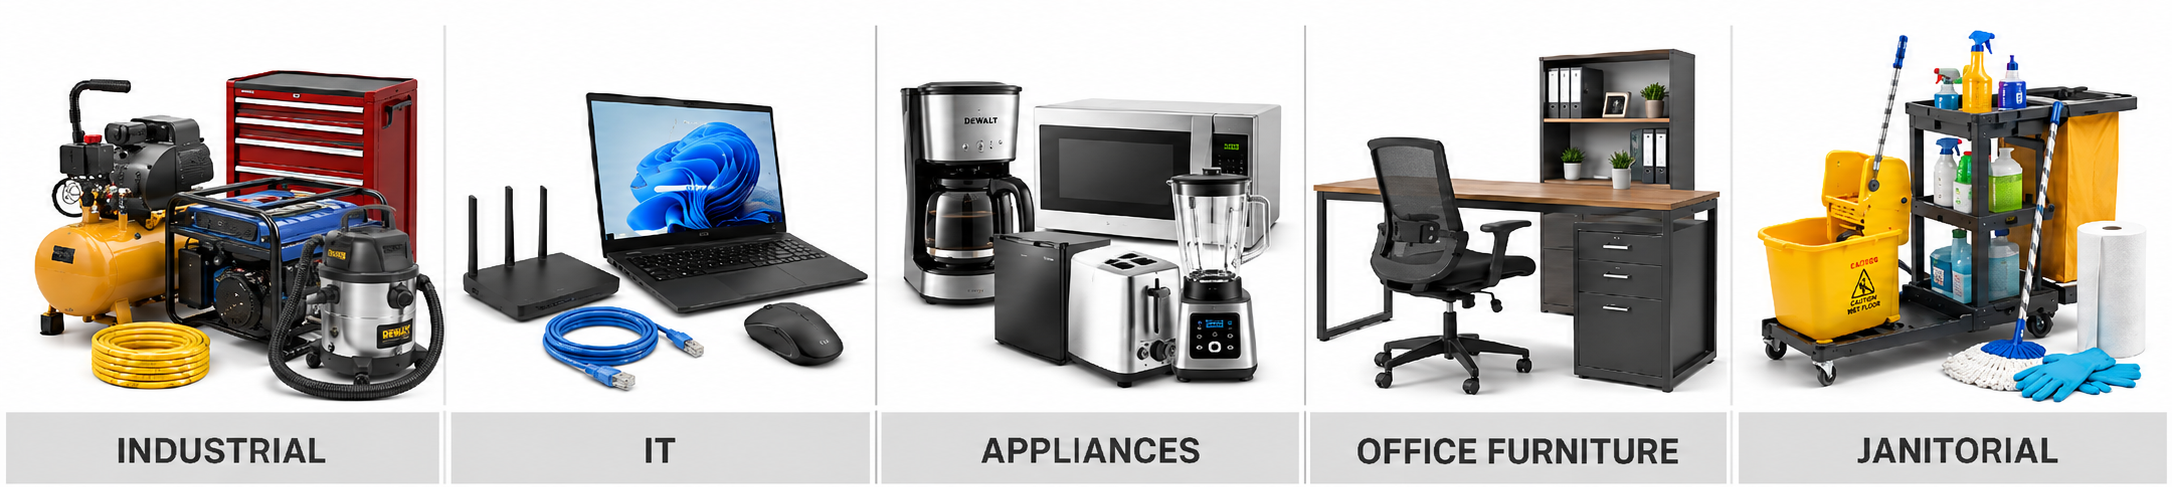
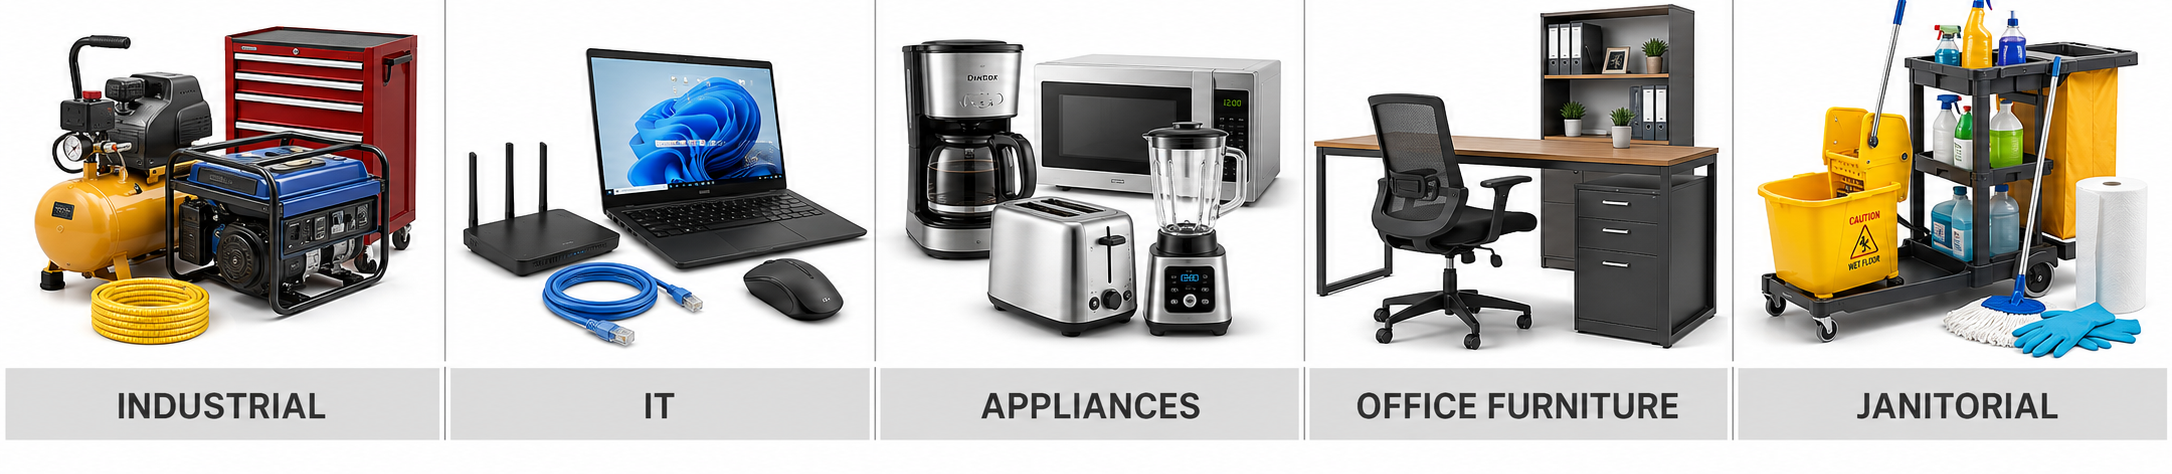
Add files via upload

diff --git a/privacy.html b/privacy.html
@@ -23,7 +23,6 @@
       <nav class="site-nav" id="site-nav">
           <a href="index.html">Home</a>
           <a href="about.html">About</a>
-          <a href="quote.html">Request a Quote</a>
           <a href="contact.html">Contact Us</a>
           <a class="shop" href="https://www.gsaadvantage.gov/advantage/ws/search/advantage_search?q=0:2GS-21F-0088X&amp;db=0&amp;searchType=1" target="_blank" rel="noopener">Shop</a>
       </nav>
@@ -41,15 +40,17 @@
     <div class="wrap">
       <p class="lede">
         This website is an informational site for New Century Technologies Inc. It does not have
-        accounts, a shopping cart, or checkout. We do not collect personal information from visitors,
-        we do not use tracking or advertising cookies, and we do not rent, sell, or lease your
-        information to anyone.
+        accounts, a shopping cart, or checkout. Aside from the quote request form, we do not collect
+        personal information from visitors, we do not use tracking or advertising cookies, and we do
+        not rent, sell, or lease your information to anyone.
       </p>
 
       <h2>What we collect on this site</h2>
       <p>
-        Nothing. There are no forms, no sign-ups, and no accounts on newcenturytechnologies.com.
-        You can read every page without giving us any information.
+        The only place this website collects information is the quote request form. If you use it, we
+        receive what you enter &mdash; typically your name, agency, email, phone, and the details of
+        your request &mdash; and we use it solely to prepare and respond to your quote. Every other
+        page can be read without giving us any information.
       </p>
 
       <h2>Cookies and tracking</h2>
@@ -61,11 +62,16 @@
 
       <h2>When you contact us</h2>
       <p>
-        If you call, fax, or email us, we receive whatever you choose to send &mdash; typically your
-        name, contact details, and what you&rsquo;re asking about. We use that information only to
-        respond to you and to fulfill your order or quote request. We do not add you to marketing
-        lists, and we do not share your inquiry with anyone outside NCT except where it is necessary
-        to fulfill your request.
+        If you call, fax, email us, or use the quote request form, we receive whatever you choose to
+        send &mdash; typically your name, contact details, and what you&rsquo;re asking about. We use
+        that information only to respond to you and to fulfill your order or quote request. We do not
+        add you to marketing lists, and we do not share your inquiry with anyone outside NCT except
+        where it is necessary to fulfill your request.
+      </p>
+      <p>
+        The quote request form is delivered to us through a third-party form processor, which passes
+        your submission to our email and does not use it for any other purpose. Their handling of that
+        data is governed by their own privacy practices.
       </p>
 
       <h2>Purchases through GSA Advantage</h2>
@@ -111,7 +117,8 @@
           <ul>
             <li><a href="shipping.html">Shipping Policy</a></li>
             <li><a href="returns.html">Return Policy</a></li>
-            <li><a href="privacy.html">Terms and Conditions</a></li>
+            <li><a href="privacy.html">Privacy Policy</a></li>
+            <li><a href="docs/GS-21F-0088X_FSSPricelist.PDF" target="_blank" rel="noopener">Terms and Conditions</a></li>
           </ul>
         </div>
         <div>

diff --git a/style.css b/style.css
@@ -72,7 +72,7 @@ button:focus-visible {
   padding-bottom: 10px;
 }
 .brand { display: inline-flex; align-items: center; }
-.brand img { height: 44px; width: auto; display: block; }
+.brand img { height: 62px; width: auto; display: block; }
 
 .nav-toggle {
   display: none;
@@ -91,8 +91,8 @@ button:focus-visible {
   text-decoration: none;
   font-weight: 600;
   font-size: 15px;
-  padding: 9px 14px;
-  border-radius: 6px;
+  padding: 4px 8px;
+  border-radius: 5px;
 }
 .site-nav a:hover { background: var(--wash); }
 .site-nav a[aria-current="page"] {
@@ -179,7 +179,7 @@ strong { color: var(--ink); }
 
 .btn {
   display: inline-block;
-  padding: 12px 22px;
+  padding: 4px 9px;
   border-radius: 6px;
   font-weight: 600;
   font-size: 15px;
@@ -714,7 +714,7 @@ main .wrap > .closing + .closing { margin-top: 14px; }
   margin-bottom: 12px;
 }
 .stage-h1 {
-  font-size: clamp(26px, 3.6vw, 38px);
+  font-size: clamp(22px, 3vw, 32px);
   line-height: 1.14;
   letter-spacing: -0.03em;
   font-weight: 700;

diff --git a/index.html b/index.html
@@ -23,7 +23,6 @@
       <nav class="site-nav" id="site-nav">
           <a href="index.html" aria-current="page">Home</a>
           <a href="about.html">About</a>
-          <a href="quote.html">Request a Quote</a>
           <a href="contact.html">Contact Us</a>
           <a class="shop" href="https://www.gsaadvantage.gov/advantage/ws/search/advantage_search?q=0:2GS-21F-0088X&amp;db=0&amp;searchType=1" target="_blank" rel="noopener">Shop</a>
       </nav>
@@ -36,7 +35,7 @@
 
       <div class="stage-copy">
         <p class="stage-eyebrow">Serving federal, state, and local agencies</p>
-        <h1 class="stage-h1">Office, industrial, janitorial, and IT products for <em>government agencies</em>.</h1>
+        <h1 class="stage-h1">Office, industrial, appliances, janitorial, and IT products for <em>government agencies</em>.</h1>
         <p class="stage-sub">
           A Woman-Owned, Small Disadvantaged Business and GSA-certified MAS Contractor delivering
          within budget.
@@ -159,7 +158,8 @@
           <ul>
             <li><a href="shipping.html">Shipping Policy</a></li>
             <li><a href="returns.html">Return Policy</a></li>
-            <li><a href="privacy.html">Terms and Conditions</a></li>
+            <li><a href="privacy.html">Privacy Policy</a></li>
+            <li><a href="docs/GS-21F-0088X_FSSPricelist.PDF" target="_blank" rel="noopener">Terms and Conditions</a></li>
           </ul>
         </div>
         <div>

diff --git a/about.html b/about.html
@@ -23,7 +23,6 @@
       <nav class="site-nav" id="site-nav">
           <a href="index.html">Home</a>
           <a href="about.html" aria-current="page">About</a>
-          <a href="quote.html">Request a Quote</a>
           <a href="contact.html">Contact Us</a>
           <a class="shop" href="https://www.gsaadvantage.gov/advantage/ws/search/advantage_search?q=0:2GS-21F-0088X&amp;db=0&amp;searchType=1" target="_blank" rel="noopener">Shop</a>
       </nav>
@@ -159,7 +158,8 @@
           <ul>
             <li><a href="shipping.html">Shipping Policy</a></li>
             <li><a href="returns.html">Return Policy</a></li>
-            <li><a href="privacy.html">Terms and Conditions</a></li>
+            <li><a href="privacy.html">Privacy Policy</a></li>
+            <li><a href="docs/GS-21F-0088X_FSSPricelist.PDF" target="_blank" rel="noopener">Terms and Conditions</a></li>
           </ul>
         </div>
         <div>

diff --git a/contact.html b/contact.html
@@ -23,7 +23,6 @@
       <nav class="site-nav" id="site-nav">
           <a href="index.html">Home</a>
           <a href="about.html">About</a>
-          <a href="quote.html">Request a Quote</a>
           <a href="contact.html" aria-current="page">Contact Us</a>
           <a class="shop" href="https://www.gsaadvantage.gov/advantage/ws/search/advantage_search?q=0:2GS-21F-0088X&amp;db=0&amp;searchType=1" target="_blank" rel="noopener">Shop</a>
       </nav>
@@ -80,7 +79,8 @@
           <ul>
             <li><a href="shipping.html">Shipping Policy</a></li>
             <li><a href="returns.html">Return Policy</a></li>
-            <li><a href="privacy.html">Terms and Conditions</a></li>
+            <li><a href="privacy.html">Privacy Policy</a></li>
+            <li><a href="docs/GS-21F-0088X_FSSPricelist.PDF" target="_blank" rel="noopener">Terms and Conditions</a></li>
           </ul>
         </div>
         <div>

diff --git a/returns.html b/returns.html
@@ -23,7 +23,6 @@
       <nav class="site-nav" id="site-nav">
           <a href="index.html">Home</a>
           <a href="about.html">About</a>
-          <a href="quote.html">Request a Quote</a>
           <a href="contact.html">Contact Us</a>
           <a class="shop" href="https://www.gsaadvantage.gov/advantage/ws/search/advantage_search?q=0:2GS-21F-0088X&amp;db=0&amp;searchType=1" target="_blank" rel="noopener">Shop</a>
       </nav>
@@ -82,7 +81,8 @@
           <ul>
             <li><a href="shipping.html">Shipping Policy</a></li>
             <li><a href="returns.html">Return Policy</a></li>
-            <li><a href="privacy.html">Terms and Conditions</a></li>
+            <li><a href="privacy.html">Privacy Policy</a></li>
+            <li><a href="docs/GS-21F-0088X_FSSPricelist.PDF" target="_blank" rel="noopener">Terms and Conditions</a></li>
           </ul>
         </div>
         <div>

diff --git a/shipping.html b/shipping.html
@@ -23,7 +23,6 @@
       <nav class="site-nav" id="site-nav">
           <a href="index.html">Home</a>
           <a href="about.html">About</a>
-          <a href="quote.html">Request a Quote</a>
           <a href="contact.html">Contact Us</a>
           <a class="shop" href="https://www.gsaadvantage.gov/advantage/ws/search/advantage_search?q=0:2GS-21F-0088X&amp;db=0&amp;searchType=1" target="_blank" rel="noopener">Shop</a>
       </nav>
@@ -99,7 +98,8 @@
           <ul>
             <li><a href="shipping.html">Shipping Policy</a></li>
             <li><a href="returns.html">Return Policy</a></li>
-            <li><a href="privacy.html">Terms and Conditions</a></li>
+            <li><a href="privacy.html">Privacy Policy</a></li>
+            <li><a href="docs/GS-21F-0088X_FSSPricelist.PDF" target="_blank" rel="noopener">Terms and Conditions</a></li>
           </ul>
         </div>
         <div>

diff --git a/quote.html b/quote.html
@@ -169,7 +169,8 @@
           <ul>
             <li><a href="shipping.html">Shipping Policy</a></li>
             <li><a href="returns.html">Return Policy</a></li>
-            <li><a href="privacy.html">Terms and Conditions</a></li>
+            <li><a href="privacy.html">Privacy Policy</a></li>
+            <li><a href="docs/GS-21F-0088X_FSSPricelist.PDF" target="_blank" rel="noopener">Terms and Conditions</a></li>
           </ul>
         </div>
         <div>